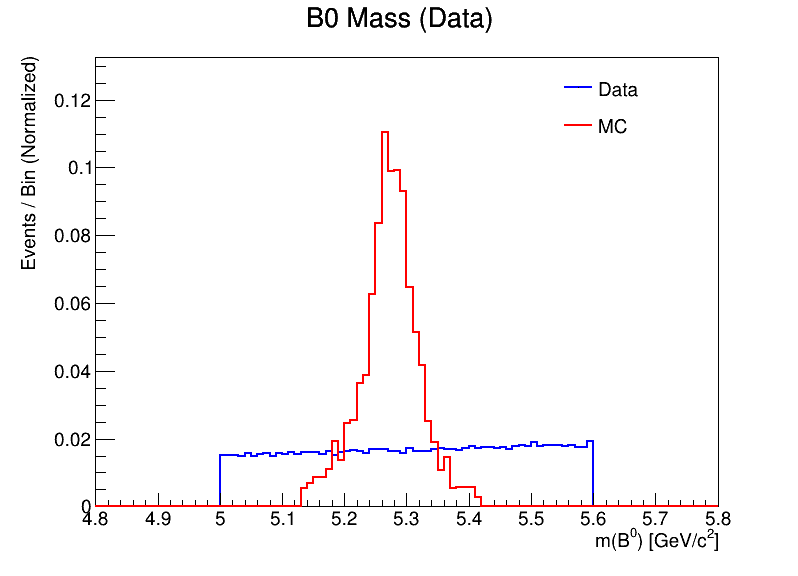
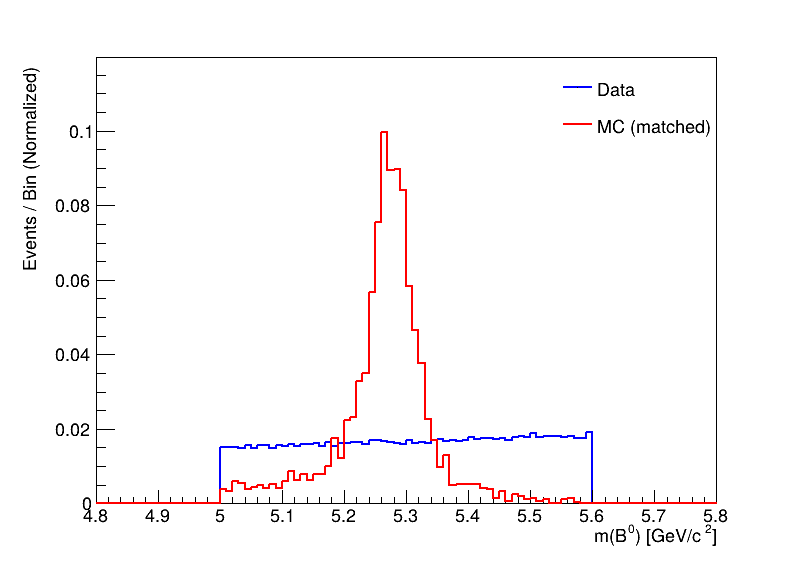
ML training

diff --git a/InitialAnalysis/bMass.cc b/InitialAnalysis/bMass.cc
@@ -48,13 +48,11 @@ void bMass(){
     t_mc->SetBranchAddress("truthMatchTrkp", &mc_truthMatchTrkp);
 
     // --- Create histograms ---
-    TH1D *h_bMass_data = new TH1D("h_bMass_data", "B0 Mass (Data)", 100, 4.8, 5.8);
-    TH1D *h_bMass_mc_truth_matched = new TH1D("h_bMass_mc_truth_matched", "B0 Mass (MC Truth Matched)", 100, 4.8, 5.8);
+    TH1D *h_bMass_data = new TH1D("h_bMass_data", "", 100, 4.8, 5.8);
+    TH1D *h_bMass_mc_truth_matched = new TH1D("h_bMass_mc_truth_matched", "", 100, 4.8, 5.8);
 
     h_bMass_data->GetXaxis()->SetTitle("m(B^{0}) [GeV/c^{2}]");
     h_bMass_data->GetYaxis()->SetTitle("Events / Bin (Normalized)");
-    h_bMass_mc_truth_matched->GetXaxis()->SetTitle("m(B^{0}) [GeV/c^{2}]");
-    h_bMass_mc_truth_matched->GetYaxis()->SetTitle("Events / Bin (Normalized)");
 
     // --- Fill data histogram ---
     cout << "Processing Data Events..." << endl;
@@ -63,7 +61,7 @@ void bMass(){
         t_data->GetEntry(i);
 
         //Selection cuts
-        if (data_bVtxCL < 0.01) continue; // skip events with poor vertex fit   
+        // if (data_bVtxCL < 0.01) continue; // skip events with poor vertex fit   
 
         double bMass_data = (data_tagB0 == 1) ? data_bMass : data_bBarMass;
 		if (bMass_data < 5.0 || bMass_data > 5.6) continue;
@@ -91,7 +89,7 @@ void bMass(){
         //if (mc_bVtxCL < 0.01) continue; // skip events with poor vertex fit   
 
         double bMass_mc = (mc_tagB0 == 1) ? mc_bMass : mc_bBarMass;
-		if (bMass_mc < 5.134 || bMass_mc > 5.416) continue;
+		if (bMass_mc < 5 || bMass_mc > 5.6) continue;
 
         h_bMass_mc_truth_matched->Fill(bMass_mc);
     }
@@ -133,7 +131,7 @@ void bMass(){
     leg->SetFillStyle(0);
     leg->SetTextSize(0.035);
     leg->AddEntry(h_bMass_data, "Data", "lp");
-    leg->AddEntry(h_bMass_mc_truth_matched, "MC", "lf");
+    leg->AddEntry(h_bMass_mc_truth_matched, "MC (matched)", "lf");
     leg->Draw();
 
     c_bMass->SaveAs("Data_vs_MC_TruthMatched.png");

diff --git a/Machine Learning/train.py b/Machine Learning/train.py
@@ -1,11 +1,25 @@
 """
-
+Handles the training loop.
 Teresa 12/07/2025
 """
 import torch
 import matplotlib.pyplot as plt
 
 def regul(val_loader, model, criterion, epoch, num_epochs, early_stopping):
+    """
+    Evaluates model on the validation set at each epoch.
+
+    Args:
+        val_loader (DataLoader): DataLoader for validation data.
+        model (torch.nn.Module): Model to be evaluated.
+        criterion (Loss): Loss function (e.g., BCE, FocalLoss).
+        epoch (int): Current epoch index.
+        num_epochs (int): Total number of training epochs.
+        early_stopping (EarlyStopping): Early stopping handler.
+
+    Returns:
+        float: Average validation loss for the epoch.
+    """
     model.eval()
     val_loss = 0.0
 
@@ -23,9 +37,23 @@ def regul(val_loader, model, criterion, epoch, num_epochs, early_stopping):
 
     return val_loss
 
+
 def train_model(model, early_stopping, train_loader, val_loader, criterion, optimizer, num_epochs=1000, flag=0):
     """
-    Train the model and plot training vs validation loss.
+    Trains the model and plots training vs validation loss with early stopping.
+
+    Args:
+        model (torch.nn.Module): Neural network to train.
+        early_stopping (EarlyStopping): Early stopping handler.
+        train_loader (DataLoader): Training data loader.
+        val_loader (DataLoader): Validation data loader.
+        criterion (Loss): Loss function.
+        optimizer (Optimizer): Optimizer for model weights.
+        num_epochs (int, optional): Max number of epochs. Defaults to 1000.
+        flag (int, optional): Plot type flag for output naming. Defaults to 0.
+
+    Returns:
+        None
     """
     stop = 0
     tl_vector, vl_vector = [], []

diff --git a/Machine Learning/early_stopping.py b/Machine Learning/early_stopping.py
@@ -16,18 +16,28 @@ class EarlyStopping:
         self.best_model_state = None  # Stores the state of the model when the best validation loss was observed
 
     def __call__(self, val_loss, model):
+        """Allows the instance to be called like a function during training"""
+        # convert validation loss into a score (lower loss = higher score)
         score = -val_loss
+
+        # on first call, set the initial best score and save model weight
         if self.best_score is None:
             self.best_score = score
             self.best_model_state = model.state_dict()
+        
+        # if current score not significantly better than best, increment the counter
         elif score < self.best_score - self.delta:
             self.counter += 1
+            # if counter exceeds patience stop training
             if self.counter >= self.patience:
                 self.early_stop = True
+
+        # if there is a significant improvement, save new best model state and reset counter
         else:
             self.best_score = score
             self.best_model_state = model.state_dict()
             self.counter = 0
 
     def load_best_model(self, model):
+        """Call after training ends to restore model to its best version (based on validation loss)."""
         model.load_state_dict(self.best_model_state)

diff --git a/Machine Learning/losses.py b/Machine Learning/losses.py
@@ -9,7 +9,7 @@ class BalancedLoss(nn.Module):
     """
     Implements balanced binary cross-entropy loss using class weights.
     """
-    def __init(self, alpha=None):
+    def __init__(self, alpha=None):
         super(BalancedLoss, self).__init__()
         self.alpha = alpha
 
@@ -18,7 +18,9 @@ class BalancedLoss(nn.Module):
         CE_loss = nn.functional.binary_cross_entropy(inputs, targets, reduction="none")
 
         if self.alpha is not None:
+            #Selects the weight based on the target value (1 or 0)
             alpha_t = self.alpha[1] * targets + self.alpha[0] * (1 - targets)
+            # apply per-sample weighting.
             CE_loss *= alpha_t
         
         # return the mean of the balanced cross-entropy loss

diff --git a/Machine Learning/prepdata_v0.py b/Machine Learning/prepdata_v0.py
@@ -70,7 +70,7 @@ class ClassificationDataset(Dataset):
     def __init__(self, X, y):
         # Convert to torch tensors
         self.X = torch.from_numpy(X)
-        self.y = torch.form_numpy(y)
+        self.y = torch.from_numpy(y)
 
     def __len__(self):
         return len(self.y)

diff --git a/Machine Learning/main.py b/Machine Learning/main.py
@@ -1,5 +1,5 @@
 """
-
+Main script to run everything.
 Teresa 12/07/2025
 """
 import torch
